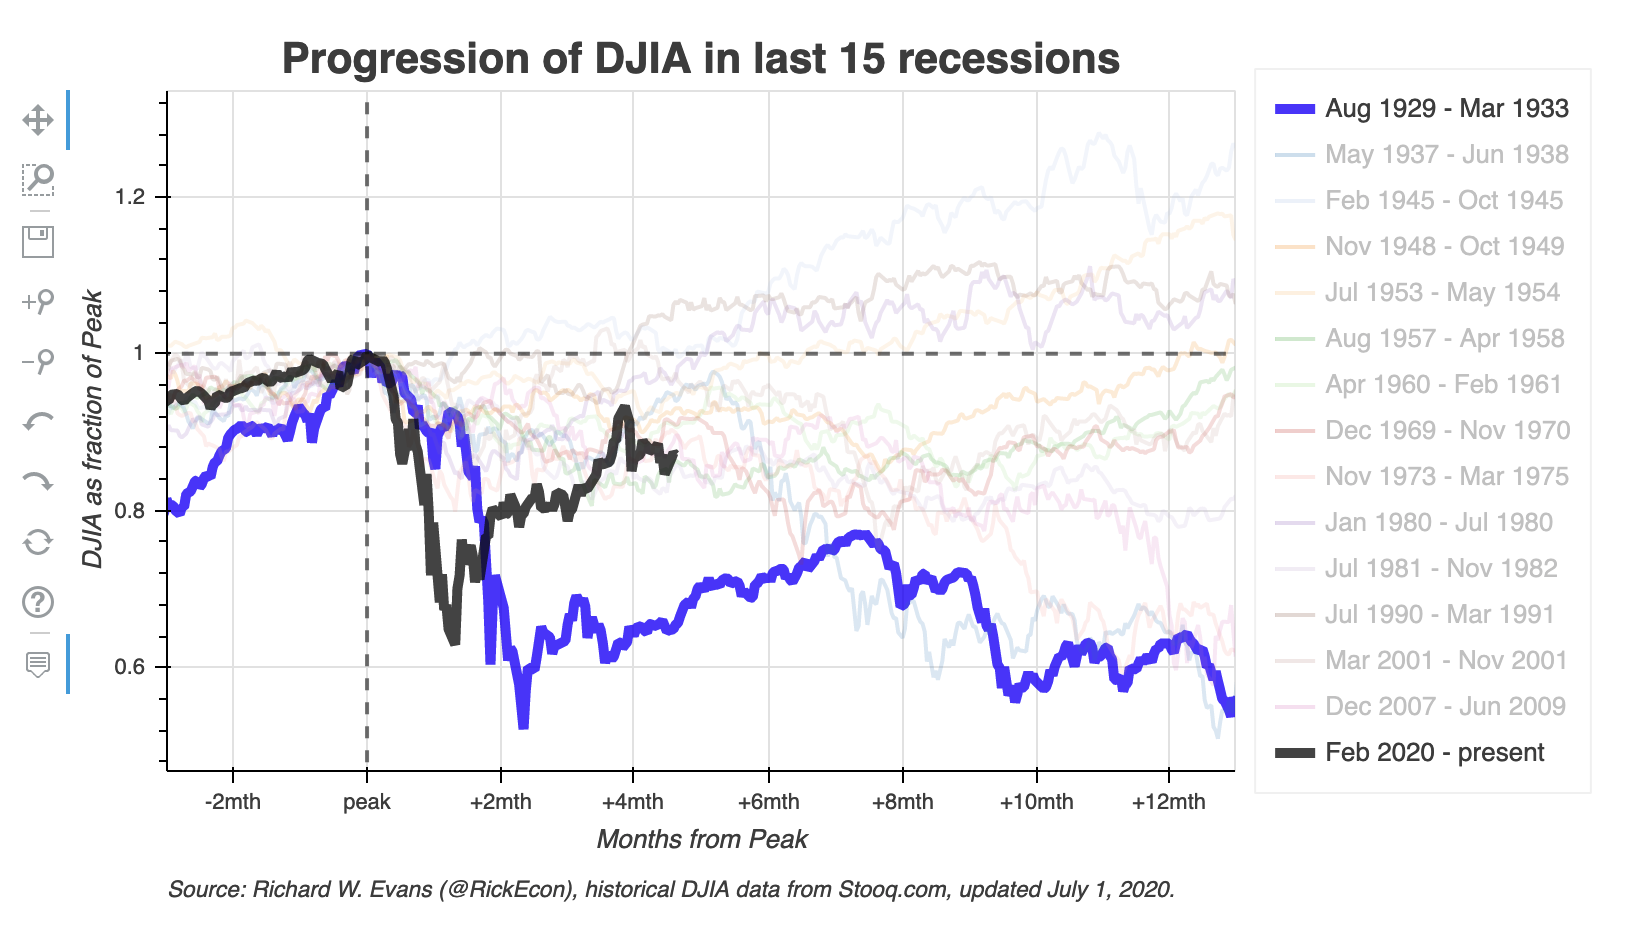
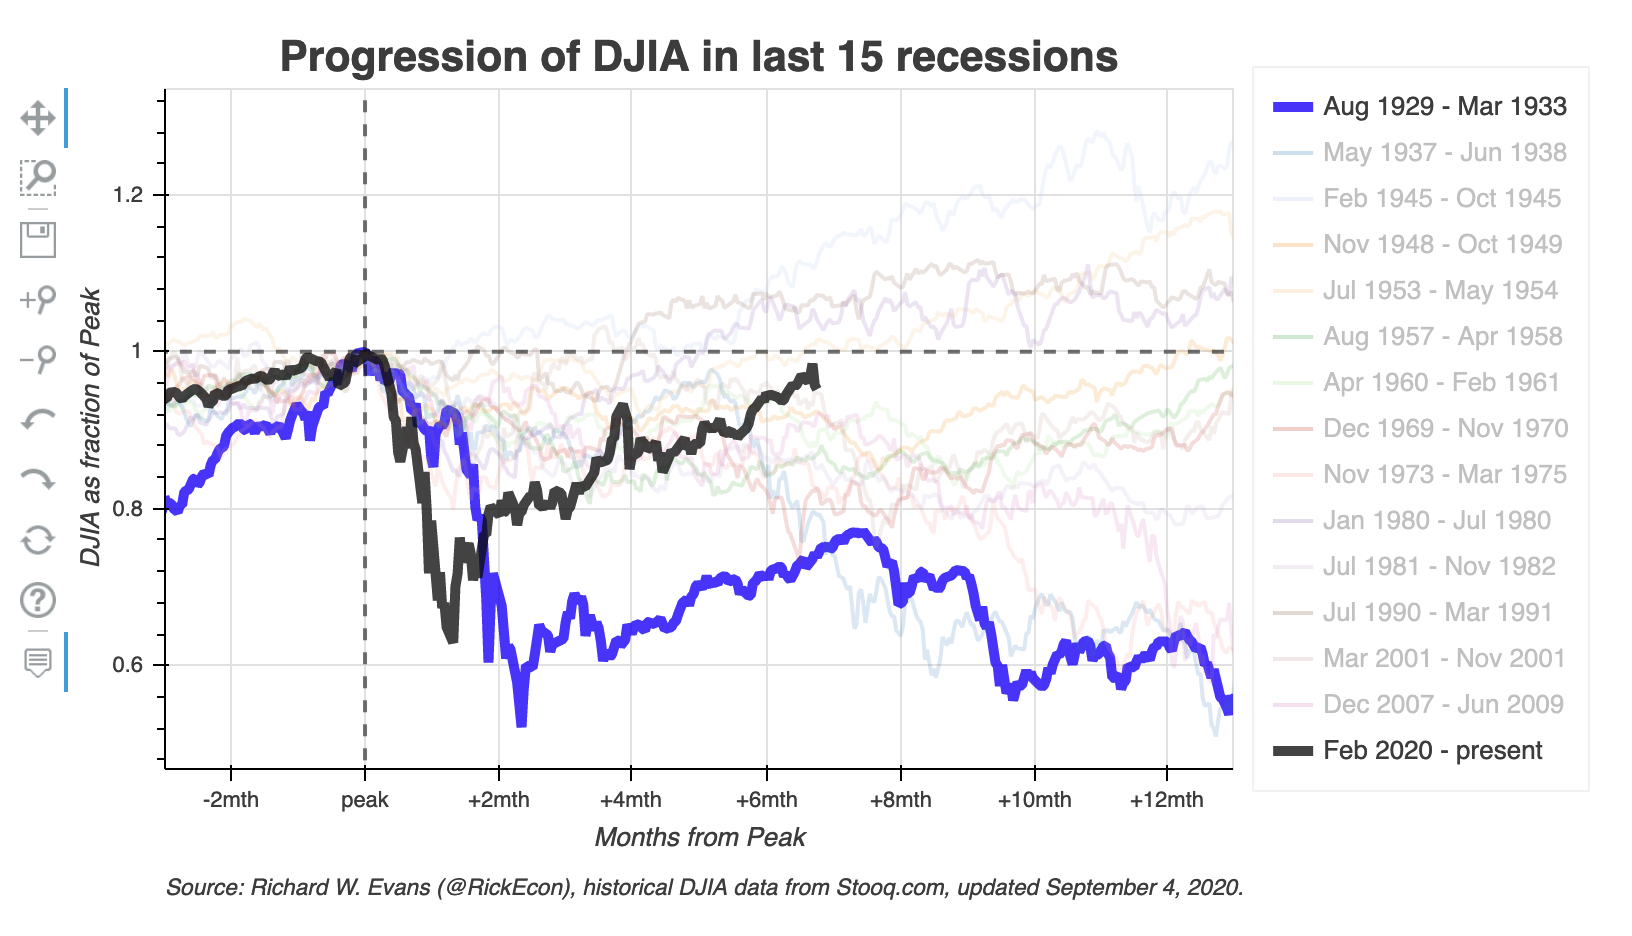
Updated README.md and readme_images

diff --git a/README.md b/README.md
@@ -1,12 +1,12 @@
 [![OSE Lab cataloged](https://img.shields.io/badge/OSE%20Lab-catalogued-critical)](https://www.oselab.org/gallery)
-[![Python 3.7.4+](https://img.shields.io/badge/python-3.7.4%2B-blue.svg)](https://www.python.org/downloads/release/python-374/)
+[![Python 3.8.2+](https://img.shields.io/badge/python-3.8.2%2B-blue.svg)](https://www.python.org/downloads/release/python-382/)
 [![Build Status](https://travis-ci.org/OpenSourceEcon/DJIA_NormPeakPlot.svg?branch=master)](https://travis-ci.org/OpenSourceEcon/DJIA_NormPeakPlot)
 [![Codecov](https://codecov.io/gh/OpenSourceEcon/DJIA_NormPeakPlot/branch/master/graph/badge.svg)](https://codecov.io/gh/OpenSourceEcon/DJIA_NormPeakPlot)
 
 # Normalized Peak Plot of Dow Jones Industrial Average (DJIA)
 The code in this repository allows the user to create a normalized peak plot of the Dow Jones Industrial Average (DJIA) over the last 15 recessions, from the Great Depression (Aug. 1929 to Mar. 1933) to the current COVID-19 recession (Feb. 2020 to present). The dynamic version of this plot, which is updated regularly, is available to manipulate and explore at [https://www.oselab.org/gallery/djia_npp_mth](https://www.oselab.org/gallery/djia_npp_mth). The core maintainer of this repository is [Richard Evans](https://sites.google.com/site/rickecon/) ([@RickEcon](https://github.com/rickecon)).
 
-A normalized peak plot takes the maximum level of the DJIA at the beginning of a recession (within two months of the NBER declared beginning month) and normalizes the entire series so that the value at that peak equals 1.0. As such, the normalized time series shows the percent change from that peak. This is an intuitive way to compare the progression of average stock prices across recessions. The following figure is a screen shot of the normalized peak plot of the DJIA from July 1, 2020.
+A normalized peak plot takes the maximum level of the DJIA at the beginning of a recession (within two months of the NBER declared beginning month) and normalizes the entire series so that the value at that peak equals 1.0. As such, the normalized time series shows the percent change from that peak. This is an intuitive way to compare the progression of average stock prices across recessions. The following figure is a screen shot of the normalized peak plot of the DJIA from September 4, 2020.
 
 ![](readme_images/DJIA_NPP_mth_full.png)
 
@@ -36,9 +36,9 @@ The most standard way to successfully run this code if you are using the [Anacon
     djia.djia_npp(12, 2, 24, 6, '2020-07-01')
     ```
 7. Executing the function [`djia_npp()`](djia_npp_bokeh.py#L222) will result in three output objects: the dynamic visualization HTML file, the original time series of the DJIA, and the organized dataset of each recession's variables time series for the periods specified in the function inputs.
-    * [**images/DJIA_NPP_mth_[YYYY-mm-dd].html**](images/DJIA_NPP_mth_2020-07-01.html). This is the dynamic visualization. The code in the file is a combination of HTML and JavaScript. You can view this visualization by opening the file in a web browser window. A version of this visualization is updated regularly on the web at [https://www.oselab.org/gallery/djia_npp_mth](https://www.oselab.org/gallery/djia_npp_mth).
-    * [**data/djia_close_[YYYY-mm-dd].csv**](data/djia_close_2020-07-01.csv). A comma separated values data file of the original time series of the DJIA from 1896-05-27 to whatever end date is specified in the [`djia_npp()`](djia_npp_bokeh.py#L222) function arguments, which is also the final 10 characters of the file name `YYYY-mm-dd`.
-    * [**data/djia_close_pk_[YYYY-mm-dd].csv**](data/djia_close_pk_2020-07-01.csv).
+    * [**images/DJIA_NPP_mth_[YYYY-mm-dd].html**](images/DJIA_NPP_mth_2020-09-04.html). This is the dynamic visualization. The code in the file is a combination of HTML and JavaScript. You can view this visualization by opening the file in a web browser window. A version of this visualization is updated regularly on the web at [https://www.oselab.org/gallery/djia_npp_mth](https://www.oselab.org/gallery/djia_npp_mth).
+    * [**data/djia_close_[YYYY-mm-dd].csv**](data/djia_close_2020-09-04.csv). A comma separated values data file of the original time series of the DJIA from 1896-05-27 to whatever end date is specified in the [`djia_npp()`](djia_npp_bokeh.py#L222) function arguments, which is also the final 10 characters of the file name `YYYY-mm-dd`.
+    * [**data/djia_close_pk_[YYYY-mm-dd].csv**](data/djia_close_pk_2020-09-04.csv).
 
 ## 2. Functionality of the dynamic visualization
 This dynamic visualization allows the user to customize some different views and manipulations of the data using the following functionalities. The default view of the visualization is shown above.
